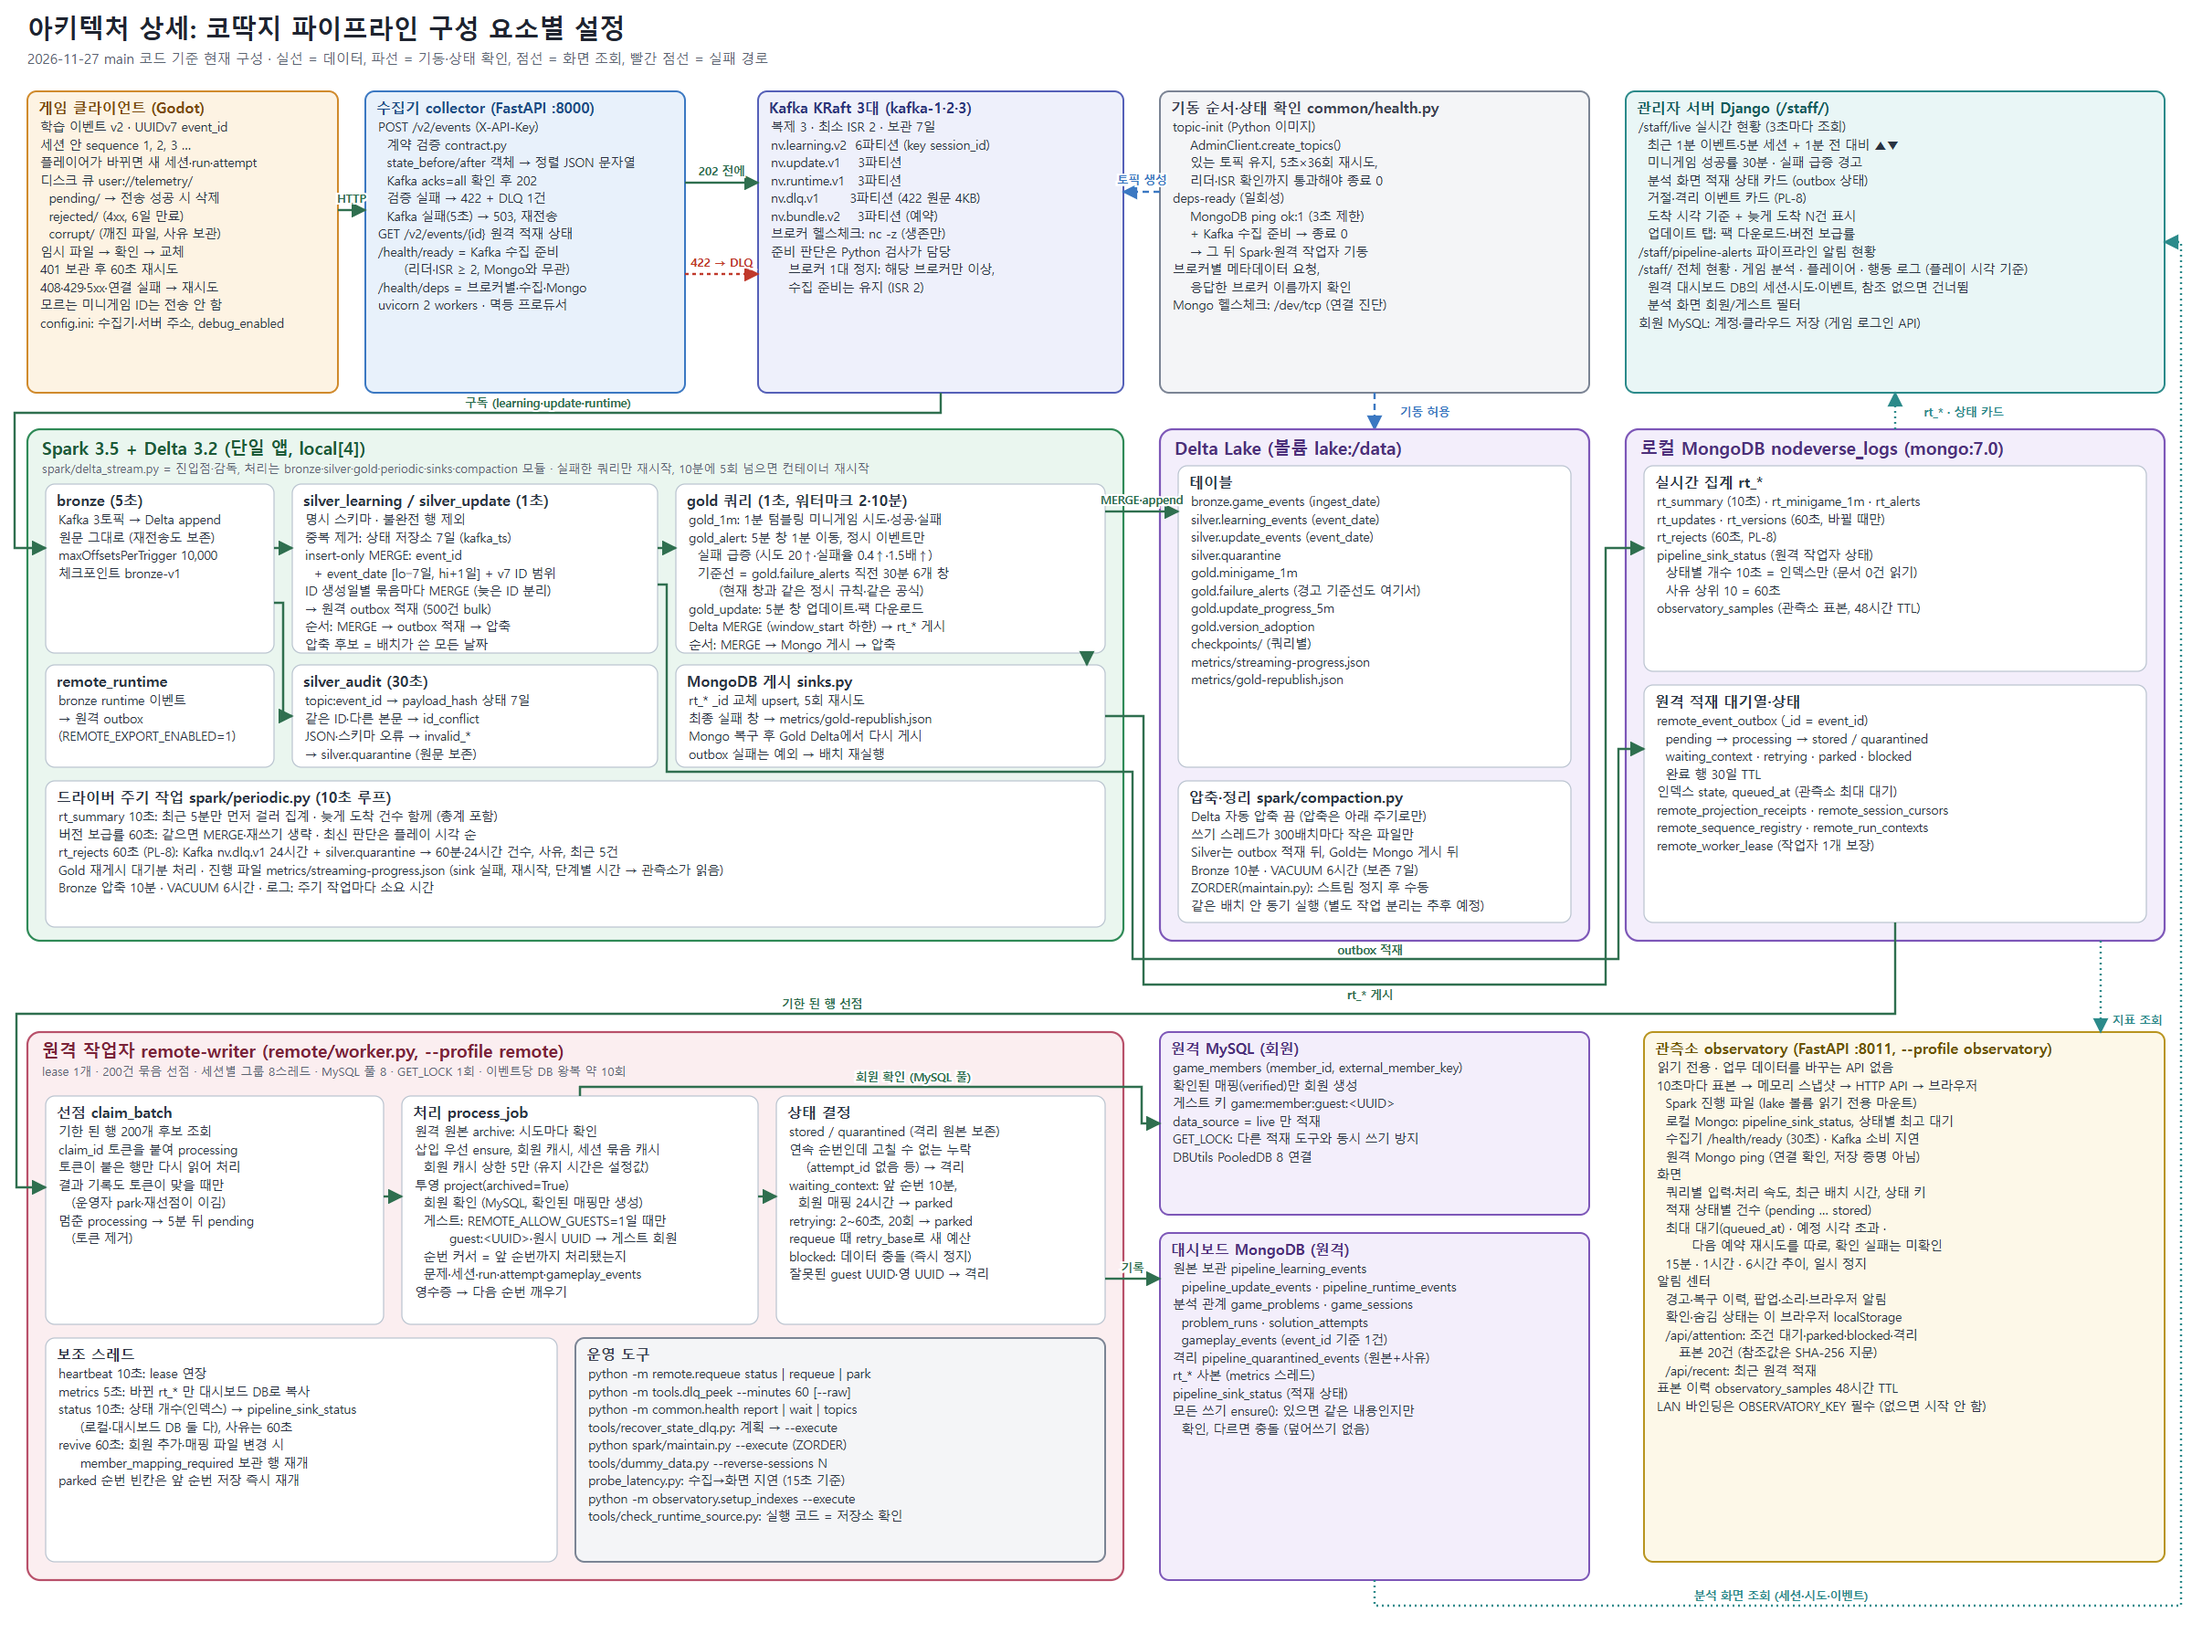
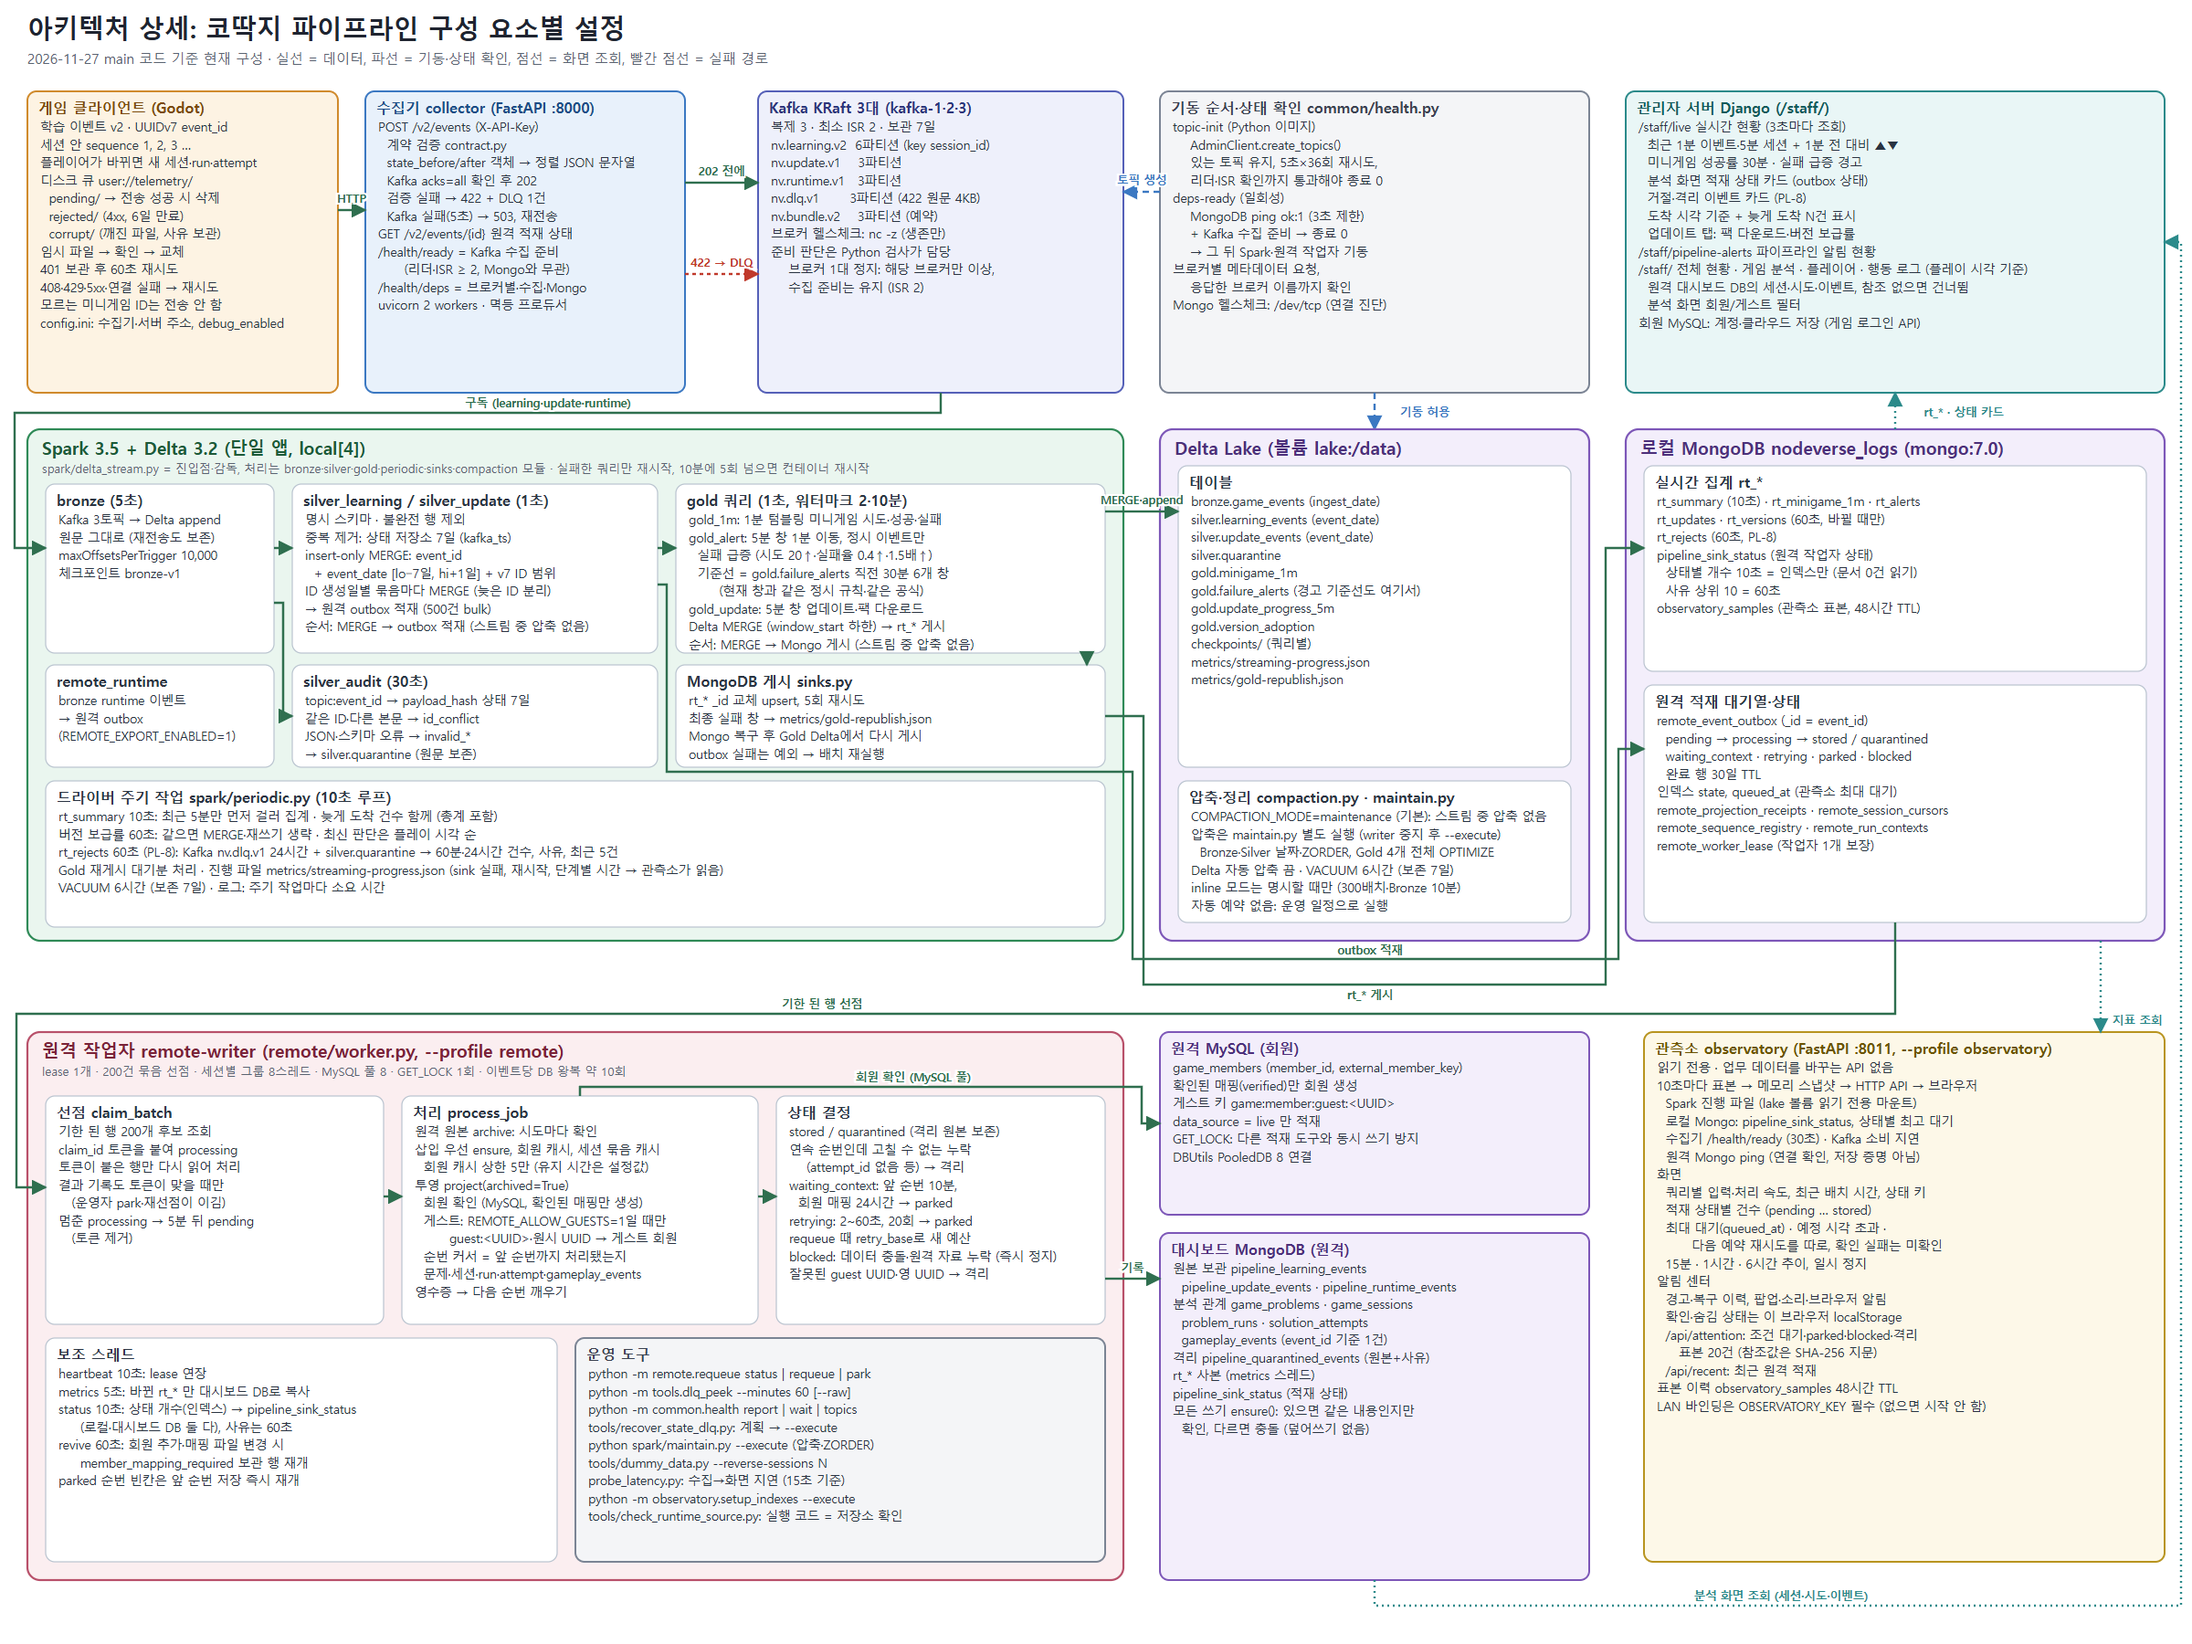
docs: architecture detail and README follow maintenance-mode compaction (65135e3)
Compaction no longer runs inside streaming batches by default; maintain.py runs it
separately. Blocked state also covers missing remote projections. README 추후 예정
keeps only the remaining part (scheduling the maintenance run).

Claude-Session: https://claude.ai/code/session_01MiC4TSuZckef5J8uYrxP8N

Changed region(s): [[0.5312, 0.4667, 0.6875, 0.56], [0.0312, 0.5289, 0.1875, 0.56], [0.2188, 0.3733, 0.25, 0.4044]]

diff --git a/docs/architecture/pipeline_architecture.py b/docs/architecture/pipeline_architecture.py
@@ -193,8 +193,7 @@ def build():
         "  + event_date [lo−7일, hi+1일] + v7 ID 범위",
         "[7] ID 생성일별 묶음마다 MERGE (늦은 ID 분리)",
         "→ 원격 outbox 적재 (500건 bulk)",
-        "[+] 순서: MERGE → outbox 적재 → 압축",
-        "[+] 압축 후보 = 배치가 쓴 모든 날짜",
+        "순서: MERGE → outbox 적재 (스트림 중 압축 없음)",
     ]))
     o.append(box(320, 728, 400, 112, "silver_audit (30초)", [
         "topic:event_id → payload_hash 상태 7일",
@@ -210,7 +209,7 @@ def build():
         "       (현재 창과 같은 정시 규칙·같은 공식)",
         "gold_update: 5분 창 업데이트·팩 다운로드",
         "Delta MERGE (window_start 하한) → rt_* 게시",
-        "[+] 순서: MERGE → Mongo 게시 → 압축",
+        "순서: MERGE → Mongo 게시 (스트림 중 압축 없음)",
     ]))
     o.append(box(740, 728, 470, 112, "MongoDB 게시 sinks.py", [
         "rt_* _id 교체 upsert, 5회 재시도",
@@ -228,7 +227,7 @@ def build():
         "[3] 버전 보급률 60초: 같으면 MERGE·재쓰기 생략 · 최신 판단은 플레이 시각 순",
         "[3] rt_rejects 60초 (PL-8): Kafka nv.dlq.v1 24시간 + silver.quarantine → 60분·24시간 건수, 사유, 최근 5건",
         "[4] Gold 재게시 대기분 처리 · 진행 파일 metrics/streaming-progress.json (sink 실패, 재시작, 단계별 시간 → 관측소가 읽음)",
-        "[6] Bronze 압축 10분 · VACUUM 6시간 · 로그: 주기 작업마다 소요 시간",
+        "VACUUM 6시간 (보존 7일) · 로그: 주기 작업마다 소요 시간",
     ]))
 
     o.append(arrow([(1030, 430), (1030, 452), (16, 452), (16, 600), (50, 600)], "data", "구독 (learning·update·runtime)", 600, 446))
@@ -251,13 +250,13 @@ def build():
         "metrics/streaming-progress.json",
         "[4] metrics/gold-republish.json",
     ]))
-    o.append(box(1290, 855, 430, 155, "압축·정리 spark/compaction.py", [
-        "Delta 자동 압축 끔 (압축은 아래 주기로만)",
-        "[6] 쓰기 스레드가 300배치마다 작은 파일만",
-        "[+] Silver는 outbox 적재 뒤, Gold는 Mongo 게시 뒤",
-        "[6] Bronze 10분 · VACUUM 6시간 (보존 7일)",
-        "ZORDER(maintain.py): 스트림 정지 후 수동",
-        "같은 배치 안 동기 실행 (별도 작업 분리는 추후 예정)",
+    o.append(box(1290, 855, 430, 155, "압축·정리 compaction.py · maintain.py", [
+        "COMPACTION_MODE=maintenance (기본): 스트림 중 압축 없음",
+        "압축은 maintain.py 별도 실행 (writer 중지 후 --execute)",
+        "  Bronze·Silver 날짜·ZORDER, Gold 4개 전체 OPTIMIZE",
+        "Delta 자동 압축 끔 · VACUUM 6시간 (보존 7일)",
+        "inline 모드는 명시할 때만 (300배치·Bronze 10분)",
+        "자동 예약 없음: 운영 일정으로 실행",
     ]))
     o.append(arrow([(1210, 560), (1290, 560)], "data", "MERGE·append", 1250, 552))
 
@@ -317,7 +316,7 @@ def build():
         "  회원 매핑 24시간 → parked",
         "retrying: 2~60초, 20회 → parked",
         "[4] requeue 때 retry_base로 새 예산",
-        "blocked: 데이터 충돌 (즉시 정지)",
+        "blocked: 데이터 충돌·원격 자료 누락 (즉시 정지)",
         "[+] 잘못된 guest UUID·영 UUID → 격리",
     ]))
     o.append(box(50, 1465, 560, 245, "보조 스레드", [
@@ -334,7 +333,7 @@ def build():
         "[3] python -m tools.dlq_peek --minutes 60 [--raw]",
         "[4] python -m common.health report | wait | topics",
         "[+] tools/recover_state_dlq.py: 계획 → --execute",
-        "python spark/maintain.py --execute (ZORDER)",
+        "python spark/maintain.py --execute (압축·ZORDER)",
         "[5] tools/dummy_data.py --reverse-sessions N",
         "probe_latency.py: 수집→화면 지연 (15초 기준)",
         "[+] python -m observatory.setup_indexes --execute",

diff --git a/README.md b/README.md
@@ -192,7 +192,7 @@ code mlo-02-p3-team1/nodeverse.code-workspace
 남은 항목만 적었습니다. 처리한 내용은 [변경 리포트](docs/reports/2026-11-20_NODEVERSE_변경리포트.md), [발표 자료](docs/presentation/), [파이프라인 문서](pipeline/docs/)에, 항목별 근거(파일·줄 번호)는 [데이터 흐름과 남은 과제](docs/DATA_FLOW_AND_GAPS.md)에 있습니다.
 
 **파이프라인**
-- 압축을 같은 배치 밖의 별도 작업으로 분리하고 테이블별 충돌 제어 (게시 지연·다음 배치 지연을 나눠 측정한 뒤)
+- 압축 유지보수 자동 예약: 압축은 스트림에서 분리했지만(기본 maintenance 모드), 지금은 writer를 멈추고 `maintain.py`를 수동 실행
 - 원격 작업자 다중 프로세스: 지금 초당 약 200건까지 따라감. 그 이상이 계속되면 세션 단위로 나눠 확장
 - 대량 부하 시험, 중복 제거 상태 48시간 비교, Silver MERGE 범위 최적화
 - DLQ 재처리 범위 확대 (현재 복구 도구는 상태 객체 사례만)
